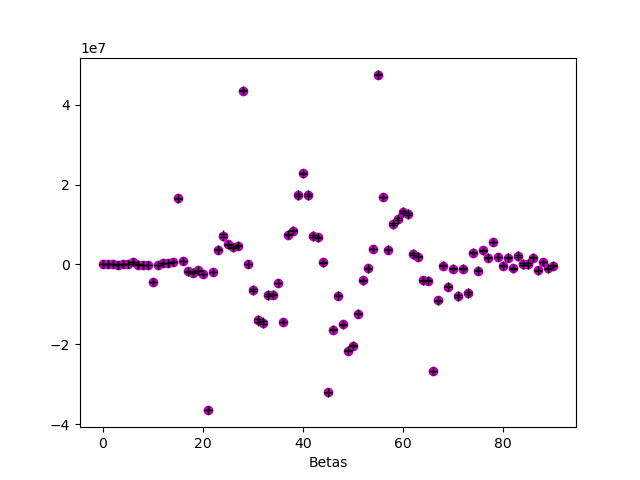
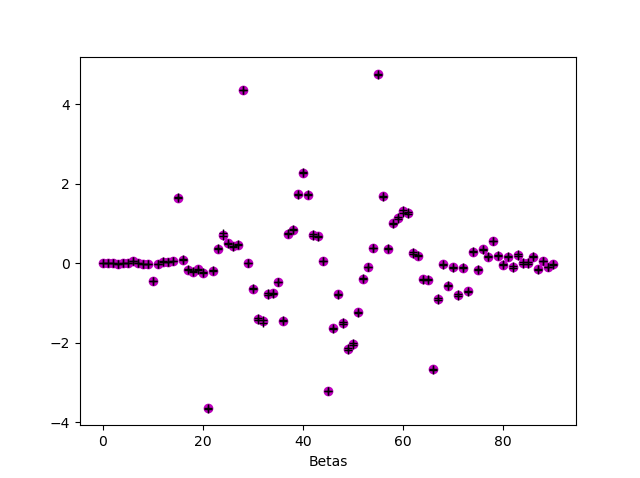
just a little scaling on the betas

diff --git a/src/terraincoding.py b/src/terraincoding.py
@@ -131,8 +131,12 @@ def OLS_terrain(*args):
         beta_x = np.arange(len(beta))
         beta_lower, beta_upper =CI(X, beta, 95, z1, z_pred, n)
 
+        #Scaling the betas
+        beta_lower = (np.array(beta_lower))/10000000
+        beta_upper = (np.array(beta_upper))/10000000
+
         #Plotting the confidence intervals for OLS terrain
-        plt.plot(beta_x, beta, 'mo', label='betas')
+        plt.plot(beta_x, beta/10000000, 'mo', label='betas')
         plt.plot(beta_x, beta_upper, 'k+')
         plt.plot(beta_x, beta_lower, 'k+')
         plt.xlabel('Betas')
@@ -260,6 +264,6 @@ OLS_plot= Perform OLS on the choosen part of terrain, and show the plot
 CI=Find the confidence intervals and plot them"""
 
 """If you want to save the figures, use 'save' as argument"""
-OLS_terrain('best_deg', 'OLS_plot', 'CI','save')
+OLS_terrain('best_deg', 'OLS_plot', 'CI')
 #ridge('save')
 #lasso('save')
